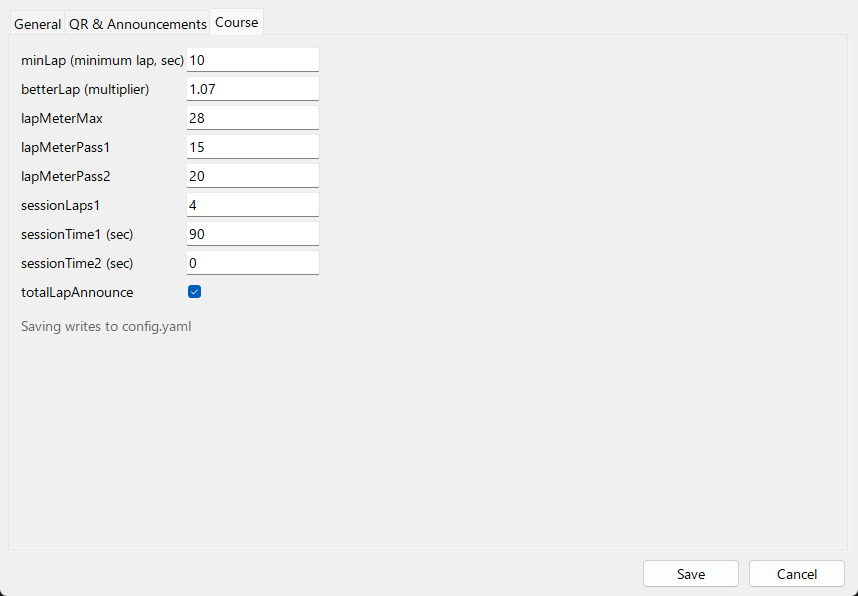
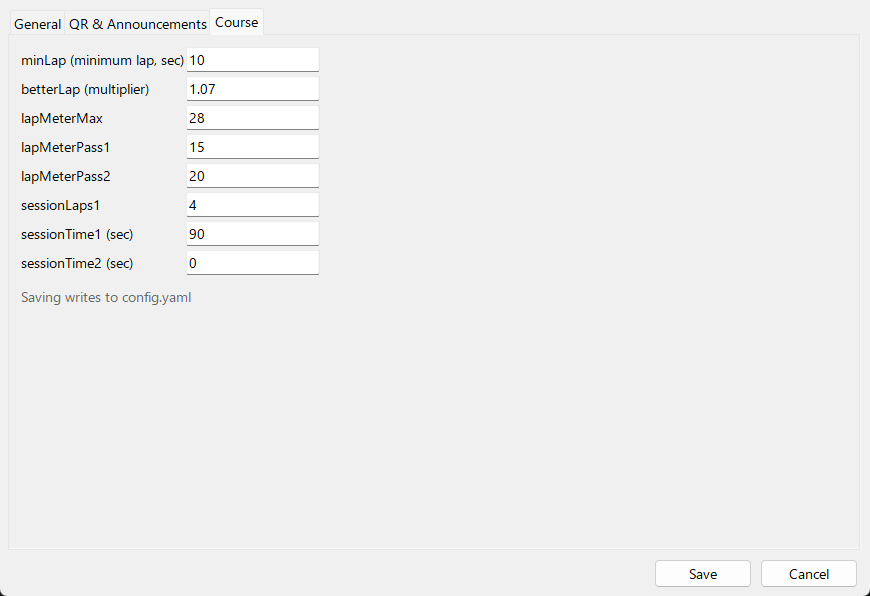
Settings: move the lap count and total announcement (totalLapAnnounce) to the QR & Announcements tab
It is still saved to track_setting / !trackSetting. Update the README, the spec, and the
settings screenshots.

diff --git a/app/settings_dialog.py b/app/settings_dialog.py
@@ -17,8 +17,9 @@ TRACK_FIELDS = [
     ("sessionLaps1", "sessionLaps1", int),
     ("sessionTime1", "sessionTime1 (sec)", float),
     ("sessionTime2", "sessionTime2 (sec)", float),
-    ("totalLapAnnounce", "totalLapAnnounce", bool),
 ]
+# !trackSetting の項目だが、アナウンスの設定なので「QR & Announcements」タブに出す
+TOTAL_ANNOUNCE = "totalLapAnnounce"
 
 # アナウンスの言語ごとに持つ項目
 SPEECH_TEXT_KEYS = ("text", "start_text", "lap_text", "total_text", "clear_text", "best_text")
@@ -187,6 +188,11 @@ def open_settings(config, track_setting: dict, n_channels: int = 4, preview_anno
     ttk.Label(q, text="Announce pilot names").grid(row=r, column=0, sticky="w", pady=2)
     ttk.Checkbutton(q, variable=qvars["speech_enabled"]).grid(row=r, column=1, sticky="w", pady=2)
     r += 1
+    total_cur = bool(track_setting.get(TOTAL_ANNOUNCE, DEFAULT_TRACK_SETTING[TOTAL_ANNOUNCE]))
+    total_var = tk.BooleanVar(value=total_cur)
+    ttk.Label(q, text="Announce lap count and total (totalLapAnnounce)").grid(row=r, column=0, sticky="w", pady=2)
+    ttk.Checkbutton(q, variable=total_var).grid(row=r, column=1, sticky="w", pady=2)
+    r += 1
     ttk.Label(q, text="Announcement language").grid(row=r, column=0, sticky="w", pady=2)
     lf = ttk.Frame(q)
     lf.grid(row=r, column=1, sticky="w", pady=2)
@@ -326,6 +332,8 @@ def open_settings(config, track_setting: dict, n_channels: int = 4, preview_anno
                 new = bool(v.get()) if typ is bool else _num(v.get(), typ)
                 if new != cur:
                     changes[key] = new
+            if bool(total_var.get()) != total_cur:
+                changes[TOTAL_ANNOUNCE] = bool(total_var.get())
         except ValueError as e:
             messagebox.showerror("Input error", f"Please check the values.\n{e}", parent=root_win)
             return

diff --git a/README.md b/README.md
@@ -138,7 +138,7 @@ The app reads the QR code that appears in the video when a drone starts up and u
 - The Japanese version announces in Japanese with the voice in `sound\voice\`. You can switch the language under `Announcement language` on the QR & Announcements tab. Without `sound\voice\`, Japanese uses Windows speech synthesis (a Japanese voice must be installed in Windows).
 - **Japanese voice (Japanese version)**: The VOICEVOX (Shikoku Metan) wav files for set phrases are in `sound\voice\`. Pilot names go in `sound\pilot\`.
 - **Pilot names are not included** (only `CHO!`, `GORI`, and `KUMACHAN` are in `sound\pilot\` of the Japanese version). In the Japanese version, the app makes `sound\pilot\<name>.wav` for a name that has no wav. If VOICEVOX is running on this PC, it is made in the VOICEVOX voice (Shikoku Metan, the same as `sound\voice\`); if not, in the Windows speech voice (see below).
-- `totalLapAnnounce` on the Course tab sets whether the lap count and total time are read.
+- `Announce lap count and total` on the QR & Announcements tab sets whether the lap count and total time are read.
 - To turn off all sounds, set `enabled` to `false` under `sound` in `config.yaml`.
 
 ### Reading pilot names in the VOICEVOX voice
@@ -200,6 +200,7 @@ Change everyday settings in the **settings dialog (S key)**, available in standb
 | `Read pilot names from QR codes` | On | Read pilot names from QR codes |
 | `QR scan interval (ms)` | 500 | How often to look for QR codes (shorter uses more CPU) |
 | `Announce pilot names` | On | Make announcements |
+| `Announce lap count and total` | On | Add the lap count and total time to lap announcements |
 | `Announcement language` | English | Announcement language (English / Japanese) |
 | `QR read` / `Start pass` / `Lap` / `Lap count and total` / `New best lap` / `Clear` | | Text read by speech synthesis. `{name}` pilot name, `{band}` band, `{time}` lap time, `{lap}` lap count, `{total}` total seconds |
 | `Speech voice` | Empty | Part of the speech voice name (empty = a voice for the language) |
@@ -212,7 +213,6 @@ Change everyday settings in the **settings dialog (S key)**, available in standb
 | Item | Default | Description |
 | --- | --- | --- |
 | `minLap` | 10 | Laps at or below this (seconds) are not counted |
-| `totalLapAnnounce` | On | Add the lap count and total time to lap announcements |
 | `sessionTime1` | 90 | Seconds for MOST LAPS IN 90s in the ranking |
 
 Other items (`betterLap`, `lapMeterMax`, and so on) are not used by this app.
